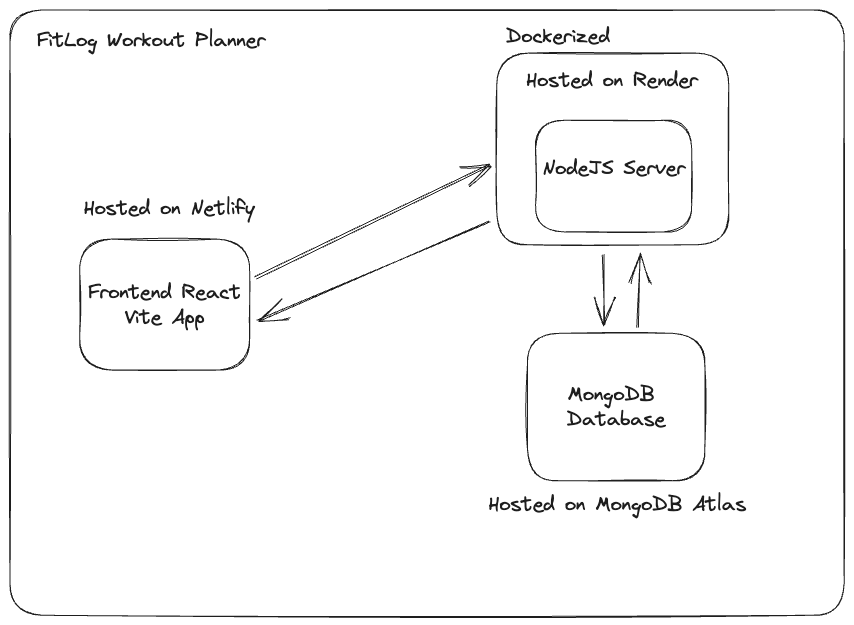
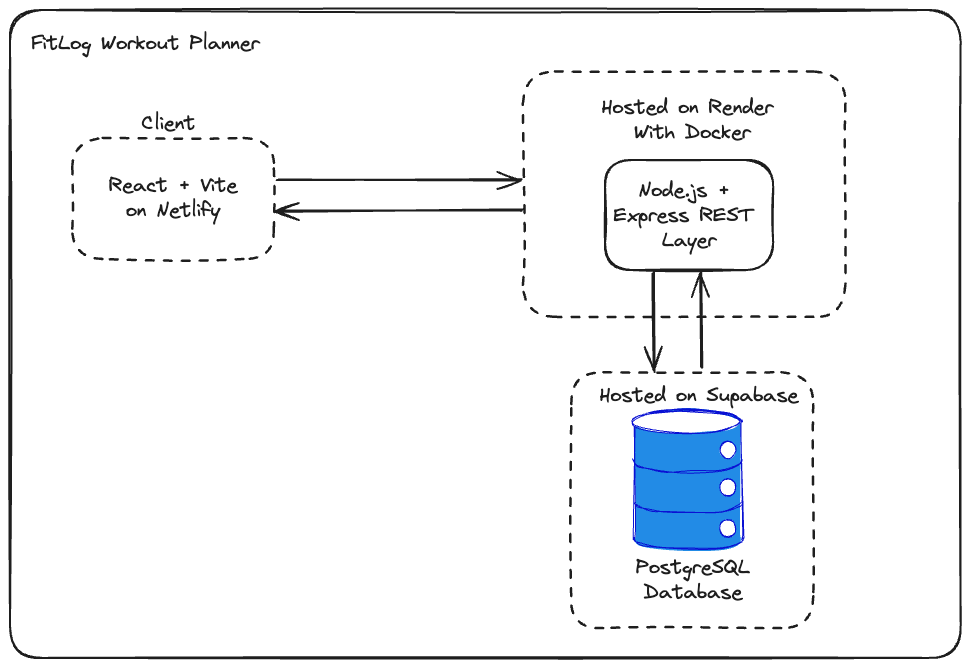
update docs

diff --git a/README.md b/README.md
@@ -1,6 +1,8 @@
 # FitLog
+
 ## Introduction
-Welcome to the Workout Planner Application! This is a powerful tool designed to help you organize and track your fitness journey. Whether you're a seasoned athlete or just getting started on your fitness goals, this MERN (MongoDB, Express, React, Node.js) stack application provides an intuitive and efficient way to plan, record, and analyze your workouts. With features like customizable workout routines, progress tracking, and social sharing, achieving your fitness objectives has never been easier. This README serves as your comprehensive guide to getting started with our application, including installation instructions, usage guidelines, and additional resources to make the most out of your fitness journey. Let's embark on this journey together towards a healthier and fitter you! 💪🏋♂🏋♀
+
+Welcome to the Workout Planner Application! This is a powerful tool designed to help you organize and track your fitness journey. Whether you're a seasoned athlete or just getting started on your fitness goals, this PERN (PostgreSQL, Express, React, Node.js) stack application provides an intuitive and efficient way to plan, record, and analyze your workouts. With features like customizable workout routines, progress tracking, and social sharing, achieving your fitness objectives has never been easier. This README serves as your comprehensive guide to getting started with our application, including installation instructions, usage guidelines, and additional resources to make the most out of your fitness journey. Let's embark on this journey together towards a healthier and fitter you! 💪🏋♂🏋♀
 
 ## Feature Set
 
@@ -8,102 +10,128 @@ Our workout planner application currently offers the following core features:
 
 ### Account Creation and Login
 
-- **User Registration**: New users can create accounts by providing essential information such as username, email, and password.
+-   **User Registration**: New users can create accounts by providing essential information such as username, email, and password.
 
-- **Secure Authentication**: User authentication is implemented to ensure the security of user accounts. Passwords are securely hashed and stored.
+-   **Secure Authentication**: User authentication is implemented to ensure the security of user accounts. Passwords are securely hashed and stored.
 
-- **User Login**: Registered users can log in to their accounts using their credentials, gaining access to personalized workout planning features.
+-   **User Login**: Registered users can log in to their accounts using their credentials, gaining access to personalized workout planning features.
 
-### Workout Management
+### Exercise Routine Management
 
-- **Create Workouts**: Users have the ability to create custom workout routines. They can define workout names, load, number of reps.
+-   **Create Routines**: Users have the ability to create custom workout routines. They can define workout names, load, number of reps.
 
-- **Read Workouts**: Users can view their created workouts, including exercise details, to review and follow their fitness plans.
+-   **Add and Read Workouts in Your Routine**: Users can view their created workouts, including exercise details, to review and follow their fitness plans.
 
-- **Update Workouts**: Modify and adjust existing workouts as fitness goals evolve. Edit workout names, descriptions, and exercise lists.
+-   **Update Routines and Workouts**: Modify and adjust existing workouts as fitness goals evolve. Edit workout names, descriptions, and exercise lists.
 
-- **Delete Workouts**: Users can remove workouts that are no longer relevant or needed.
+-   **Delete Routines and Workouts**: Users can remove workouts that are no longer relevant or needed.
 
 These features provide users with the foundation for planning and managing their fitness routines within our workout planner application. We are continuously working to enhance and expand our feature set to better serve our users' fitness needs. See the future of FitLog at the roadmap section of our readme!
 
 ## Usage:
+
 ### Live Access
+
 Access the application, live on Netlify https://fitlog-workout-planner.netlify.app
 
 ### Locally
+
 To run this application locally download the src code and follow instructions for the next two sections.
+
 #### Frontend
-Navigate to the frontend-vite folder, in your terminal run ```npm install``` then run ```npm run dev```. The frontend will now be running locally on port 5173
+
+Navigate to the frontend-vite folder, in your terminal run `npm install` then run `npm run dev`. The frontend will now be running locally on port 5173
 
 #### Backend
-Navigate to the backend folder, in your terminal run ```npm install```. Run npm run dev, you will need to populate the .env folder with your own local mongodb credentials.
+
+Navigate to the backend folder, in your terminal run `npm install`. Run npm run dev, you will need to populate the .env folder with your own local mongodb credentials.
 
 ## Architecture
-![Architecture Diagram](assets/architecture.png)
-
+![Alt text](assets/architecture.png)
+![Alt text](image.png)
 ## Database Diagram
+
 ![Database Diagram](assets/dbdiagram.png)
 
 ## Technologies Used:
+
 The choice of the MERN stack for our workout planner application was driven by a combination of flexibility, scalability, and developer-friendliness. MongoDB, a NoSQL database, provides the agility required to store complex fitness data, allowing us to adapt and expand our data model as our application evolves. Express, a minimal and robust Node.js web application framework, allows for efficient routing and handling of HTTP requests. React, with its component-based architecture, offers a dynamic and responsive user interface that aligns seamlessly with the needs of fitness enthusiasts who require real-time updates and interactivity. Node.js, as the runtime environment, enables server-side JavaScript execution, ensuring a consistent language throughout the stack. Together, the MERN stack empowers us to deliver a modern, performant, and feature-rich workout planner that's ready to meet the demands of both novice and experienced users in their fitness journeys.
 
 ## Deployement:
+
 Our workout planner application is seamlessly deployed to ensure accessibility and reliability. The frontend is hosted on Netlify, providing a fast and user-friendly web experience. Netlify's continuous integration and deployment (CI/CD) pipelines ensure that the latest changes are automatically deployed to production, reducing development overhead.
 
-For the backend, we've taken a containerized approach. The Node.js server and Express application are packaged into Docker containers, allowing for consistent and efficient deployment across different environments. These containers are deployed to Render, a platform designed for easy and scalable container hosting. Render's simplicity and automatic scaling make it an ideal choice for ensuring our backend remains responsive and available, even during periods of high traffic.
+For the backend, we've taken a containerized approach. The Node.js server and Express application are packaged into a Docker container , allowing for consistent and efficient deployment across different environments. The container is deployed to Render, a platform designed for easy and scalable container hosting. Render's simplicity and automatic scaling make it an ideal choice for ensuring our backend remains responsive and available, even during periods of high traffic.
+
+The PostgreSQL database is deployed using Supabase, a platform that provides a managed PostgreSQL database with a built-in API. Supabase's simple and intuitive interface allows us to easily manage our database, including the ability to create tables, add data, and query the database.
 
 With this deployment setup, we prioritize performance, scalability, and reliability to provide our users with a seamless workout planning experience
 
 ## Roadmap
 
 ### Testing (Unit and Integration)
-- Strengthen application reliability by incorporating comprehensive testing.
-  - **Unit Testing with Jest**: Implement unit tests to verify individual components, functions, and modules, ensuring their correctness and robustness.
-  - **Integration Testing with Cypress**: Perform integration tests to validate the interactions between different parts of the application, checking for proper functionality.
-  - **UI Testing with React Testing Library**: Conduct UI testing to ensure that user interfaces meet design expectations and that user interactions work as intended.
+
+-   Strengthen application reliability by incorporating comprehensive testing.
+    -   **Unit Testing with Jest**: Implement unit tests to verify individual components, functions, and modules, ensuring their correctness and robustness.
+    -   **Integration Testing with Jest and Supertest**: Perform integration tests to validate the interactions between different parts of the application, checking for proper functionality.
+    -   **UI Testing with React Testing Library**: Conduct UI testing to ensure that user interfaces meet design expectations and that user interactions work as intended.
 
 ### Enhance User Profile Management
-- Implement a comprehensive UI and backend functionality for users to update their profiles, change passwords, manage email addresses, and add avatars using S3 buckets.
+
+-   Implement a comprehensive UI and backend functionality for users to update their profiles, change passwords, manage email addresses, and add avatars using S3 buckets.
 
 ### Improve Session Management
-- Transition from local storage to cookies for session information storage, and consider implementing Redis sessions for enhanced security and efficiency.
+
+-   Transition from local storage to cookies for session information storage, and consider implementing Redis sessions for enhanced security and efficiency.
 
 ### Mobile Application Development
-- Explore the development of a mobile UI using technologies such as React Native or Swift to extend the reach of our workout planner application.
+
+-   Explore the development of a mobile UI using technologies such as React Native or Swift to extend the reach of our workout planner application.
 
 ### Implement Caching
-- Introduce a Redis caching layer for optimized data retrieval from the workouts database, including exercises and routines.
+
+-   Introduce a Redis caching layer for optimized data retrieval from the workouts database, including exercises and routines.
 
 ### Enhance User Authentication
-- Integrate Single Sign-On (SSO) capabilities and implement a "forgot password" feature, leveraging services like Sendgrid API or other email services for enhanced user security.
+
+-   Integrate Single Sign-On (SSO) capabilities and implement a "forgot password" feature, leveraging services like Sendgrid API or other email services for enhanced user security.
 
 ### Improve Search Functionality
-- Add a robust search bar to the frontend, enabling users to easily find exercises and routines, enhancing overall usability.
+
+-   Add a robust search bar to the frontend, enabling users to easily find exercises and routines, enhancing overall usability.
 
 ### Microservices Architecture
-- Transition to a microservices architecture, including the creation of an API gateway in Golang. Implement Kubernetes (k8s) for efficient service management within a cluster.
+
+-   Transition to a microservices architecture, including the creation of an API gateway in Golang. Implement Kubernetes (k8s) for efficient service management within a cluster.
 
 ### Database Migration
-- Migrate from MongoDB to PostgreSQL, utilizing TypeORM for improved data management and scalability.
+
+  -   ~~Migrate from MongoDB to PostgreSQL, utilizing TypeORM for improved data management and scalability.~~
 
 ### Introduce Routines
-- Enable users to create and share workout routines, including a "likes" attribute for public consumption. This feature can be used to create personalized feeds for users.
+
+-   ~~Enable users to create and share workout routines, including a "likes" attribute for public consumption. This feature can be used to create personalized feeds for users.~~
 
 ### Social Media Integration
-- Explore the addition of social media and networking features within the application, tailoring the complexity and depth of these enhancements as needed.
+
+-   Explore the addition of social media and networking features within the application, tailoring the complexity and depth of these enhancements as needed.
 
 ### Communication Features
-- Integrate real-time communication capabilities, including chat and video calling using sockets, to facilitate interaction among users.
+
+-   Integrate real-time communication capabilities, including chat and video calling using sockets, to facilitate interaction among users.
 
 ### AI Integration
-- Consider integrating ChatGPT APIs for personalized workout routine suggestions and prompts based on user data.
+
+-   Consider integrating ChatGPT APIs for personalized workout routine suggestions and prompts based on user data.
 
 ### Local Development Support
-- Simplify local development with Docker Compose, providing a local version of the MongoDB database for user convenience during development.
+
+-   Simplify local development with Docker Compose, providing a local version of the MongoDB database for user convenience during development.
 
 ### API Documentation
-- Enhance developer experience by adding Swagger documentation for our APIs, ensuring clarity and ease of integration for external developers.
 
+-   Enhance developer experience by adding Swagger documentation for our APIs, ensuring clarity and ease of integration for external developers.
 
 ## Contributing
+
 Pull requests are welcome. For major changes, please open an issue first to discuss what you would like to change.
